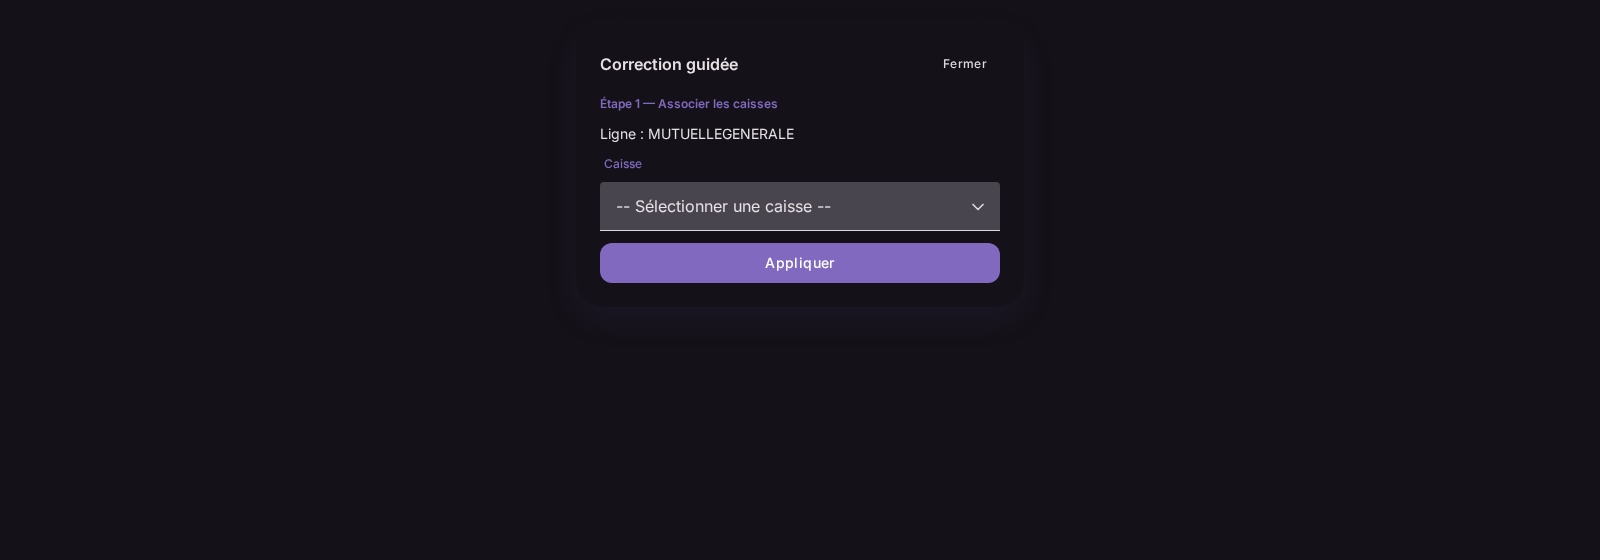
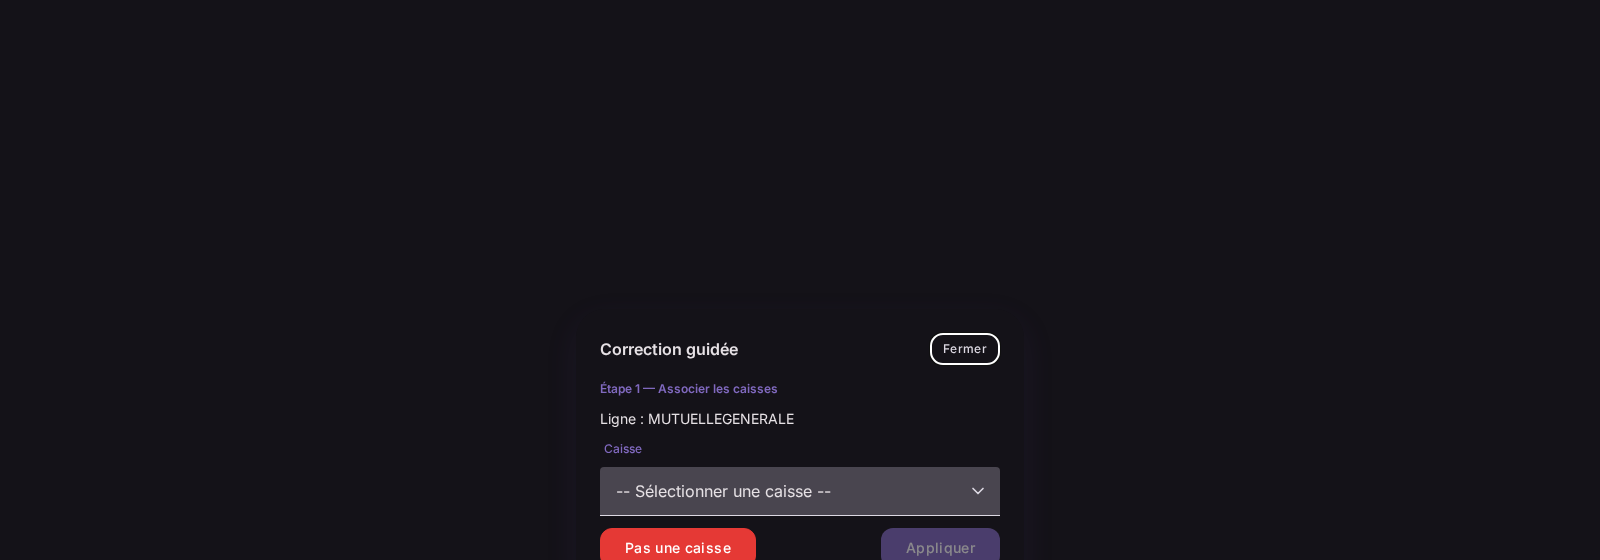
fix(bank): wizard link-fund step requires explicit choice or reject

diff --git a/src/features/bank-statement-match/ui/ReconciliationWizard.tsx b/src/features/bank-statement-match/ui/ReconciliationWizard.tsx
@@ -114,31 +114,51 @@ export function ReconciliationWizard({
               />
             )}
 
-            <Button
-              id="wizard-apply-step"
-              variant="primary"
-              onClick={() => {
-                if (isLinkFundPhase) {
-                  onApplyCorrection({
-                    type: "LinkFund",
-                    bank_label: current.credit_line.label,
-                    assignment:
-                      selectedFundId === ""
-                        ? { type: "Rejected" }
-                        : { type: "Fund", fund_id: selectedFundId },
-                  });
-                } else {
-                  onApplyCorrection({
-                    type: "AssignGroups",
-                    line_id: current.line_id,
-                    group_ids: [],
-                  });
-                }
-                setSelectedFundId("");
-              }}
-            >
-              {t("reconciliation.wizard.apply")}
-            </Button>
+            <div className="flex items-center justify-between gap-2">
+              {isLinkFundPhase ? (
+                <Button
+                  id="wizard-reject-step"
+                  variant="danger"
+                  onClick={() => {
+                    onApplyCorrection({
+                      type: "LinkFund",
+                      bank_label: current.credit_line.label,
+                      assignment: { type: "Rejected" },
+                    });
+                    setSelectedFundId("");
+                  }}
+                >
+                  {t("reconciliation.link_fund.reject")}
+                </Button>
+              ) : (
+                <span />
+              )}
+              <Button
+                id="wizard-apply-step"
+                variant="primary"
+                disabled={isLinkFundPhase && selectedFundId === ""}
+                onClick={() => {
+                  if (isLinkFundPhase) {
+                    // Rejection is only ever the explicit button above (BAS-101) —
+                    // an empty selection never implies it.
+                    onApplyCorrection({
+                      type: "LinkFund",
+                      bank_label: current.credit_line.label,
+                      assignment: { type: "Fund", fund_id: selectedFundId },
+                    });
+                  } else {
+                    onApplyCorrection({
+                      type: "AssignGroups",
+                      line_id: current.line_id,
+                      group_ids: [],
+                    });
+                  }
+                  setSelectedFundId("");
+                }}
+              >
+                {t("reconciliation.wizard.apply")}
+              </Button>
+            </div>
           </div>
         )}
       </div>

diff --git a/src/features/bank-statement-match/ui/ReconciliationWizard.integration.test.tsx b/src/features/bank-statement-match/ui/ReconciliationWizard.integration.test.tsx
@@ -161,6 +161,57 @@ describe("ReconciliationWizard — BAS-100–103", () => {
     );
   });
 
+  // BAS-101 — the apply button never submits with the placeholder selected;
+  // an empty selection must not imply rejection.
+  it("disables apply while no fund is selected in the link-fund step (BAS-101)", () => {
+    const onApplyCorrection = vi.fn();
+    const reconciliation = makeReconciliation([makeNeedsLinkLine("line-nl-1", "MGEN")]);
+
+    render(
+      <ReconciliationWizard
+        reconciliation={reconciliation}
+        isOpen={true}
+        onApplyCorrection={onApplyCorrection}
+        onComplete={vi.fn()}
+        onAbandon={vi.fn()}
+      />,
+    );
+
+    const applyBtn = document.getElementById("wizard-apply-step") as HTMLButtonElement | null;
+    expect(applyBtn).not.toBeNull();
+    expect(applyBtn?.disabled).toBe(true);
+    expect(onApplyCorrection).not.toHaveBeenCalled();
+  });
+
+  // BAS-101/BAS-030 — rejection is an explicit affordance, mirroring LinkFundModal.
+  it("submits a Rejected assignment only via the explicit reject button (BAS-101)", async () => {
+    const user = userEvent.setup();
+    const onApplyCorrection = vi.fn();
+    const reconciliation = makeReconciliation([makeNeedsLinkLine("line-nl-1", "MGEN")]);
+
+    render(
+      <ReconciliationWizard
+        reconciliation={reconciliation}
+        isOpen={true}
+        onApplyCorrection={onApplyCorrection}
+        onComplete={vi.fn()}
+        onAbandon={vi.fn()}
+      />,
+    );
+
+    const rejectBtn = document.getElementById("wizard-reject-step");
+    expect(rejectBtn).not.toBeNull();
+    if (!rejectBtn) throw new Error("wizard reject button missing");
+
+    await user.click(rejectBtn);
+
+    expect(onApplyCorrection).toHaveBeenCalledWith({
+      type: "LinkFund",
+      bank_label: "MGEN",
+      assignment: { type: "Rejected" },
+    });
+  });
+
   // BAS-103 — abandoning calls onAbandon (corrections already applied are kept — caller's concern)
   it("calls onAbandon when the abandon/close button is clicked mid-wizard (BAS-103)", async () => {
     const user = userEvent.setup();

diff --git a/docs/todo.md b/docs/todo.md
@@ -2,12 +2,6 @@
 
 ---
 
-## (frontend/bank) — Wizard link-fund step silently rejects on empty selection
-
-`ReconciliationWizard.tsx:118-135`: Apply with the placeholder selected submits `{ type: "Rejected" }` — no disabled state, no explicit reject affordance (unlike `LinkFundModal`). Fix: disable Apply until a fund is chosen; add an explicit Reject button.
-
----
-
 ## (frontend/bank) — Wizard assign-group step has no candidate selector
 
 `ReconciliationWizard.tsx:128-133`: phase 2 always submits `AssignGroups` with `group_ids: []` (an unassign override per BAS-062) — the wizard cannot actually resolve needs-group lines. Fix per amended BAS-101: present the same ranked candidate selector as the manual correction (extract a shared `CandidateList` from `AssignGroupsModal`); a step with nothing selected is skipped, not applied.
